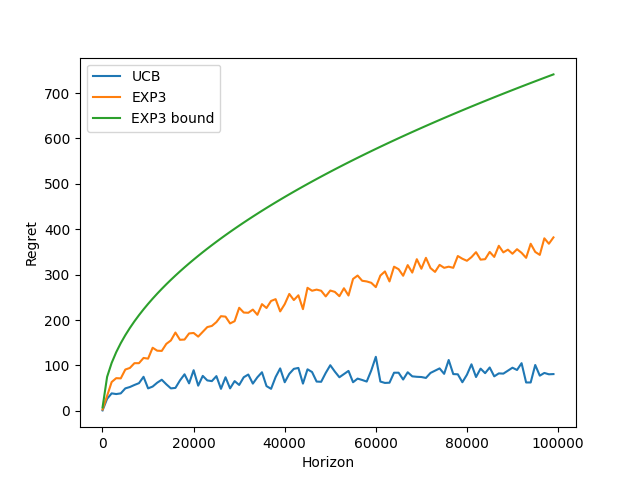
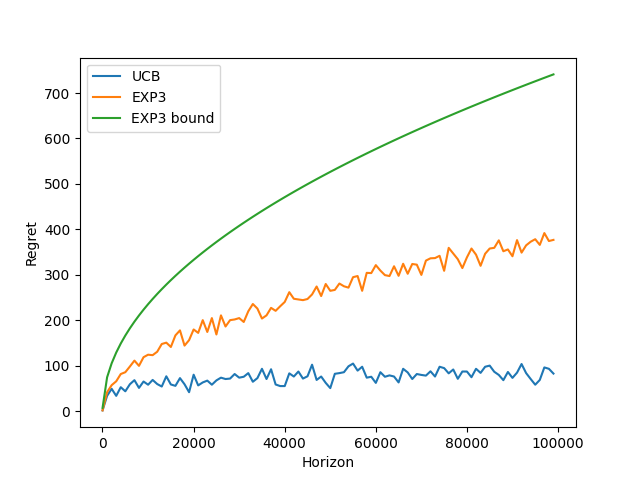
adding new graphs

diff --git a/BA_ch_11/EXP3.py b/BA_ch_11/EXP3.py
@@ -18,9 +18,8 @@ class EXP3(object):
 
     def update(self, arm, reward):
         """Updates the algorithm's beliefs."""
+        self.S[arm] = self.S[arm] + 1 - ((1 - reward) / sps.softmax(self.eta * self.S)[arm])
         for i in range(self.n_arms):
             if i != arm:
                 # for every other arm add 1
                 self.S[i] += 1
-            else:
-                self.S[arm] = self.S[arm] + 1 - ((1 - reward) / sps.softmax(self.eta * self.S)[arm])
